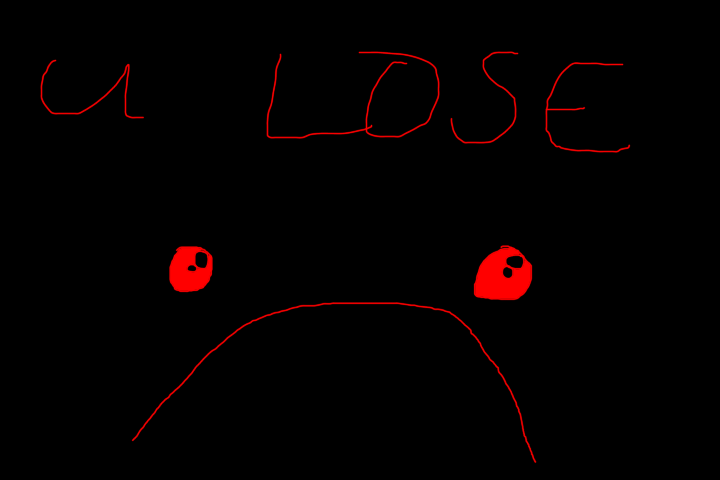
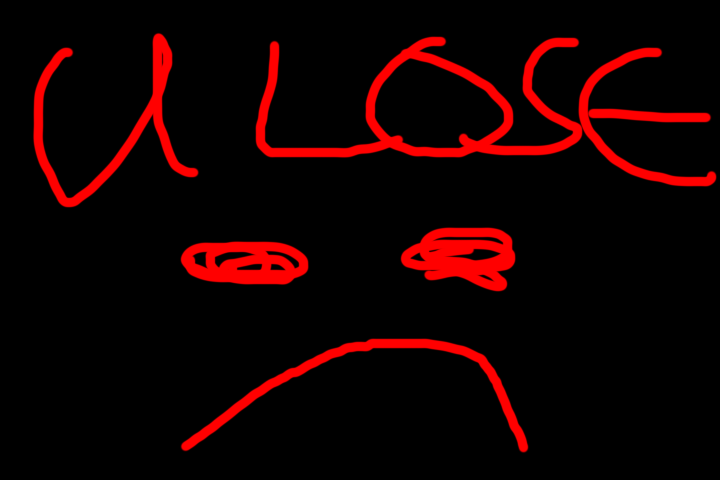
moved timer to window and you can lose
NEARLY DONE WITH PURE FUNCTIONING

diff --git a/src/main/kotlin/Main.kt b/src/main/kotlin/Main.kt
@@ -1,5 +1,6 @@
 import com.formdev.flatlaf.themes.FlatMacDarkLaf
 import java.awt.Color
+import java.awt.Font
 import java.awt.Point
 import java.awt.event.MouseAdapter
 import java.awt.event.MouseEvent
@@ -42,27 +43,27 @@ class App {
     val locationList = mutableListOf<Location>()
     private val inventory = mutableListOf<Item>()
 
-    val timer = Timer(1000, null)
-    var countDown = 60
-
     init {
         val startBackgrounds = listOf(Background("images/startWindow.png"))
         val breakerBackgrounds = listOf(Background("images/breakerWindow.png",240,120,240,240),Background("images/breakerWindow2.png",240,120,240,240),Background("images/breakerWindow3.png"))
-        val officeBackgrounds = listOf(Background("images/officeWindow.png"),Background("images/officeWindow2.png",300,240,120,240),Background("images/officeWindow3.png"),Background("images/winScreen.png"))
+        val officeBackgrounds = listOf(Background("images/officeWindow.png"),Background("images/officeWindow2.png",300,240,120,240),Background("images/officeWindow3.png"))
         val empty1Backgrounds = listOf(Background("images/empty1Window.png"))
         val supplyClosetBackgrounds = listOf(Background("images/supplyClosetWindow.png",180,120,360,360),Background("images/supplyClosetWindow2.png",180,120,360,360),Background("images/supplyClosetWindow3.png"))
+        val loseScreenBackgrounds = listOf(Background("images/loseWindow.png"))
 
         val start = Location("Start", startBackgrounds, "images/startButton.png", Point(150, 150))
         val breaker = Location("Breaker", breakerBackgrounds, "images/breakerButton.png", Point(75, 75))
         val office = Location("Office", officeBackgrounds,"images/officeButton.png",  Point(225, 225))
         val empty1 = Location("Empty1", empty1Backgrounds, "images/empty1Button.png", Point(75, 225))
         val supplyCloset = Location("Supply Closet", supplyClosetBackgrounds, "images/supplyClosetButton.png", Point(225, 75))
+        val loseScreen = Location("Lose Screen", loseScreenBackgrounds, "images/startButton.png", Point(150, 150))
 
         locationList.add(start)
         locationList.add(breaker)
         locationList.add(empty1)
         locationList.add(supplyCloset)
         locationList.add(office)
+        locationList.add(loseScreen)
 
         setupActions()
     }
@@ -96,23 +97,10 @@ class App {
         }
         if (currentLocation == locationList[4] && currentLocation.currentBackgroundIndex == 1) {
             currentLocation.currentBackgroundIndex++
-            timer.stop()
         }
     }
 
     private fun setupActions() {
-        timer.addActionListener { handleTimerEnd() }
-    }
-
-    private fun handleTimerEnd() {
-        countDown--
-        println(countDown)
-        if (countDown == 0)
-            loseGame()
-    }
-
-    private fun loseGame() {
-
     }
 }
 
@@ -141,11 +129,14 @@ class Location(
  *
  * @param app the app state object
  */
-class MainWindow(private val app: App) {
+class MainWindow(val app: App) {
     val frame = JFrame("Kill the Human")
-    private val panel = JPanel().apply { layout = null }
+
+    private val timer = Timer(1000,null)
+    private var countDown = 5
+    private val panel = JLayeredPane().apply { layout = null }
     private var imageLabel = JLabel()
-    private var countDown = JLabel("${app.countDown}")
+    private var countDownLabel = JLabel("$countDown")
     private val mapWindow = MapWindow(this, app) // Pass app state to dialog too
     private val textWindow = TextWindow(this, app)
 
@@ -157,21 +148,22 @@ class MainWindow(private val app: App) {
         updateUI()
         mapWindow.show()
         textWindow.show()
-        app.timer.start()
+        timer.start()
     }
 
     private fun setupLayout() {
         panel.preferredSize = java.awt.Dimension(720, 480)
 
         imageLabel.setBounds(0, 0, 720, 480)
-        countDown.setBounds(10,10,50,50)
+        countDownLabel.setBounds(10,10,100,100)
 
         panel.add(imageLabel)
-        panel.add(countDown)
+        panel.add(countDownLabel)
+        panel.setLayer(countDownLabel, JLayeredPane.DEFAULT_LAYER+1)
     }
 
     private fun setupStyles() {
-
+        countDownLabel.font = Font("Arial", Font.PLAIN, 50)
     }
 
     private fun setupWindow() {
@@ -189,6 +181,18 @@ class MainWindow(private val app: App) {
             }
 
         })
+
+        timer.addActionListener { handleTimerEnd() }
+    }
+
+    private fun handleTimerEnd() {
+        countDown--
+        updateUI()
+        if (countDown == 0) {
+            imageLabel.icon = ImageIcon(ClassLoader.getSystemResource("images/loseScreen.png"))
+            timer.stop()
+            mapWindow.die()
+        }
     }
 
     fun handleBackgroundClick(mouseX: Int, mouseY: Int) {
@@ -212,12 +216,7 @@ class MainWindow(private val app: App) {
         val helpme = ClassLoader.getSystemResource(currentBackground.image)
         imageLabel.icon = ImageIcon(helpme)
 
-        countDown.text = "${app.countDown}"
-        if (app.currentLocation == app.locationList[4] && app.currentLocation.currentBackgroundIndex == 2) {
-            Thread.sleep(1000L)
-            app.currentLocation.currentBackgroundIndex++
-            updateUI()
-        }
+        countDownLabel.text = "$countDown"
 
         mapWindow.updateUI()       // Keep child dialog window UI up-to-date too
         textWindow.updateUI()
@@ -345,6 +344,11 @@ class MapWindow(private val owner: MainWindow, private val app: App) {
         )
 
         dialog.isVisible = true
+    }
+
+    fun die() {
+        panel.isVisible = false
+        owner.app.innerMonologue = "Dang it! We couldn't kill them!"
     }
 }
 
